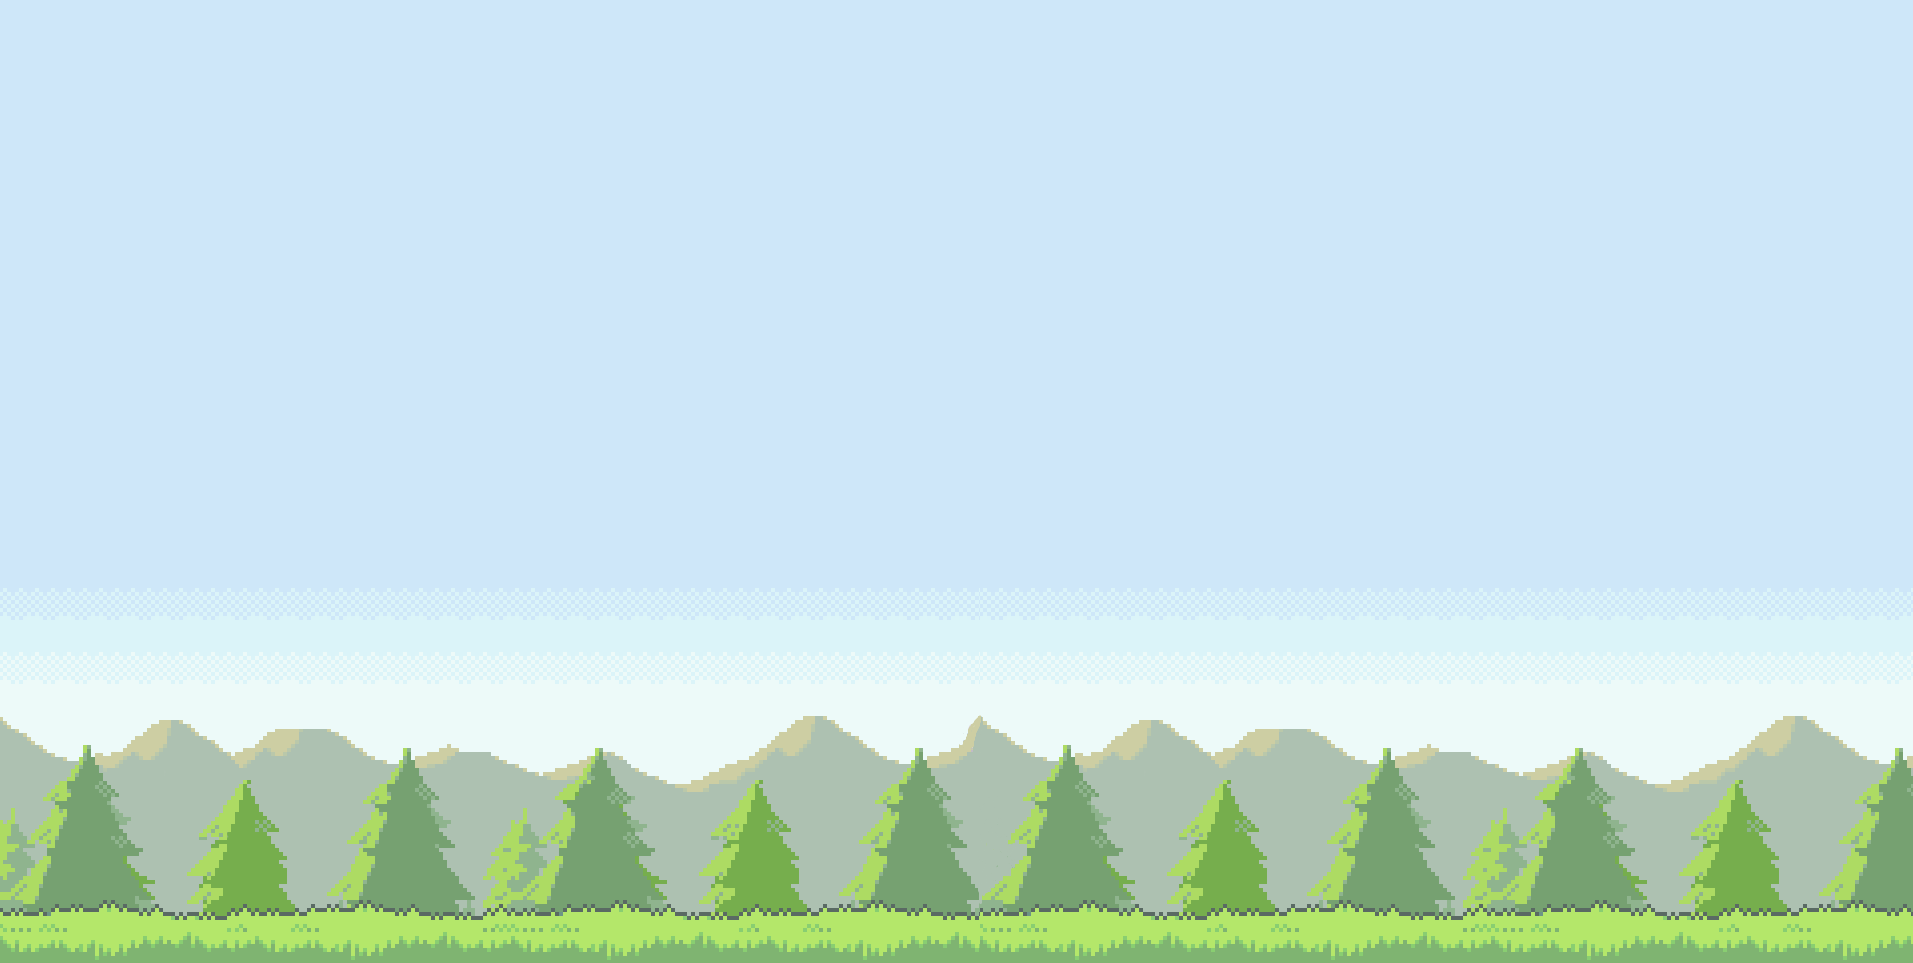
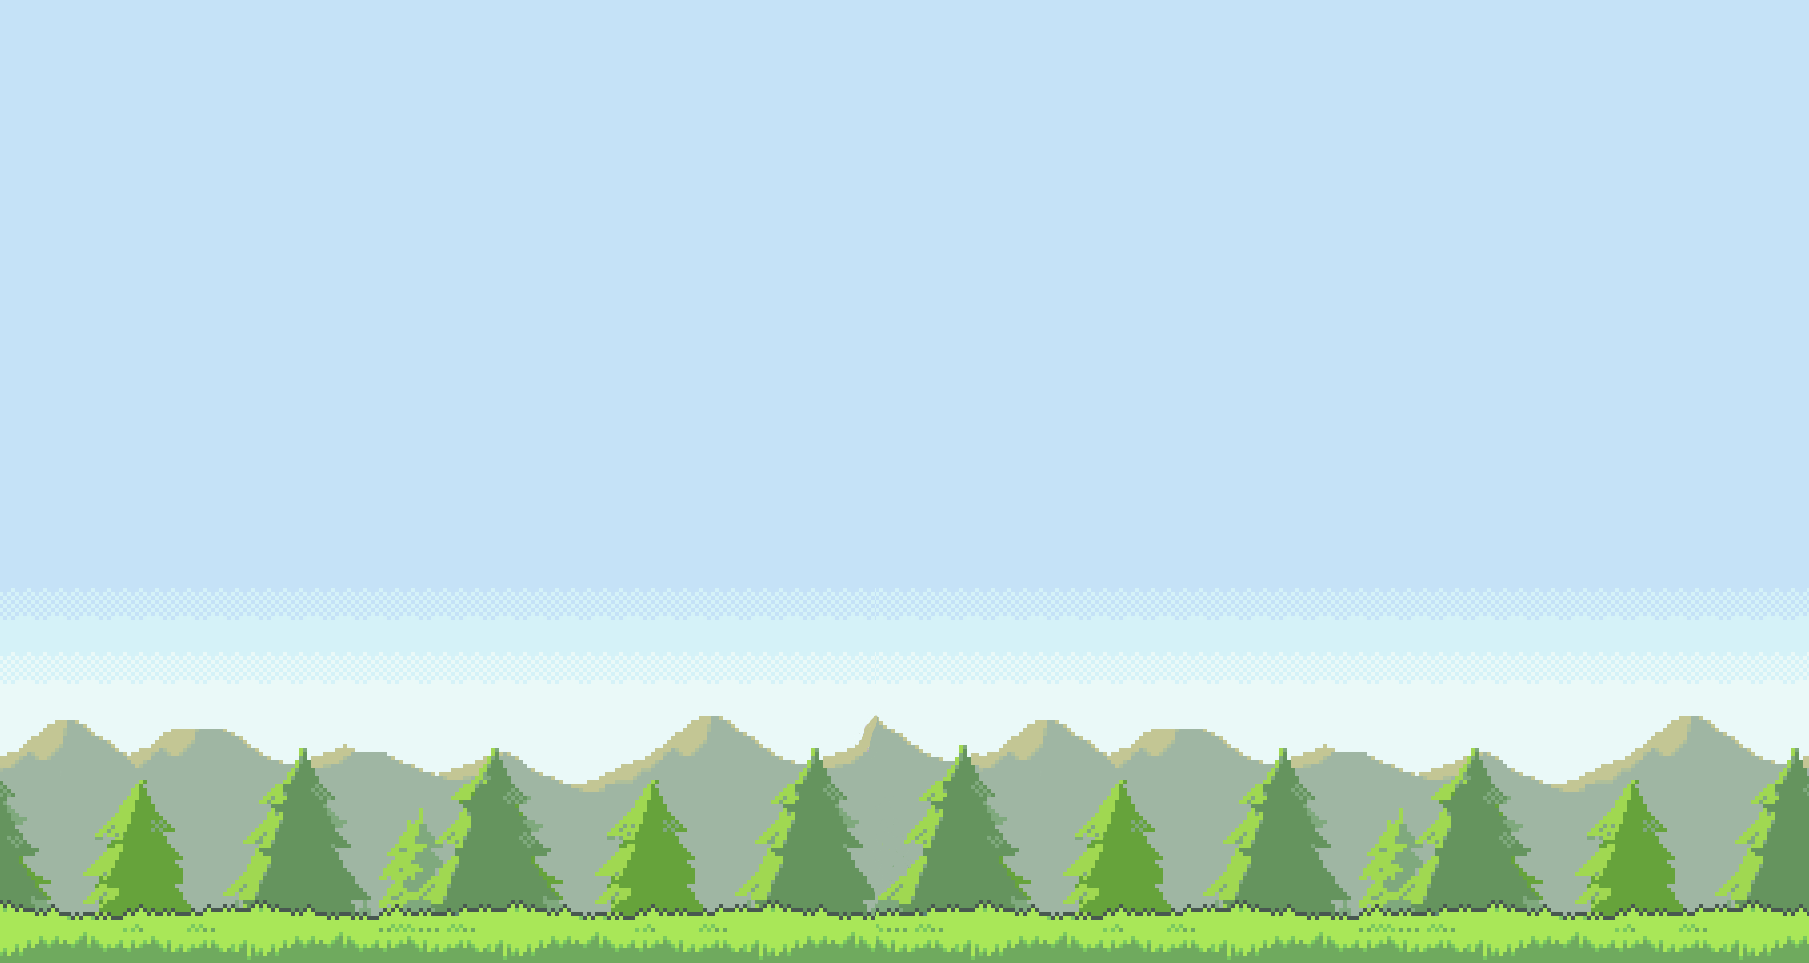
moving background

Changed region(s): [[0.0, 0.7477, 0.9906, 0.9969]]

diff --git a/app/styles/_game-canvas.scss b/app/styles/_game-canvas.scss
@@ -53,8 +53,27 @@
     overflow: hidden;
 
     // Some graphics
-    background-image: url('/images/bg.png');
-    background-size: em(1024px) em(576px);
+
+
+
+}
+
+.background-pic {
+  position: absolute;
+  top: 0;
+  width: inherit;
+  height: inherit;
+  background-image: url('/images/bg.png');
+  background-repeat: repeat-x;
+  background-clip: border-box;
+  background-size: em(1024px) em(576px);
+
+  animation: moveBackground 120s infinite linear;
+}
+
+@keyframes moveBackground {
+  from{ background-position: 0px 0px;}
+  to { background-position: -2048px 0px;}
 }
 
 .groundContainer{

diff --git a/app/index.html b/app/index.html
@@ -24,6 +24,9 @@
         <![endif]-->
         <a href="#noscroll" id="mute"><img id='toggleAudio' src="/images/soundON.png"></img></a>
         <div class="GameCanvas">
+            <div class="background-pic">
+
+            </div>
             <div id="player" class="Player"></div>
             <div class="background"></div>
 
